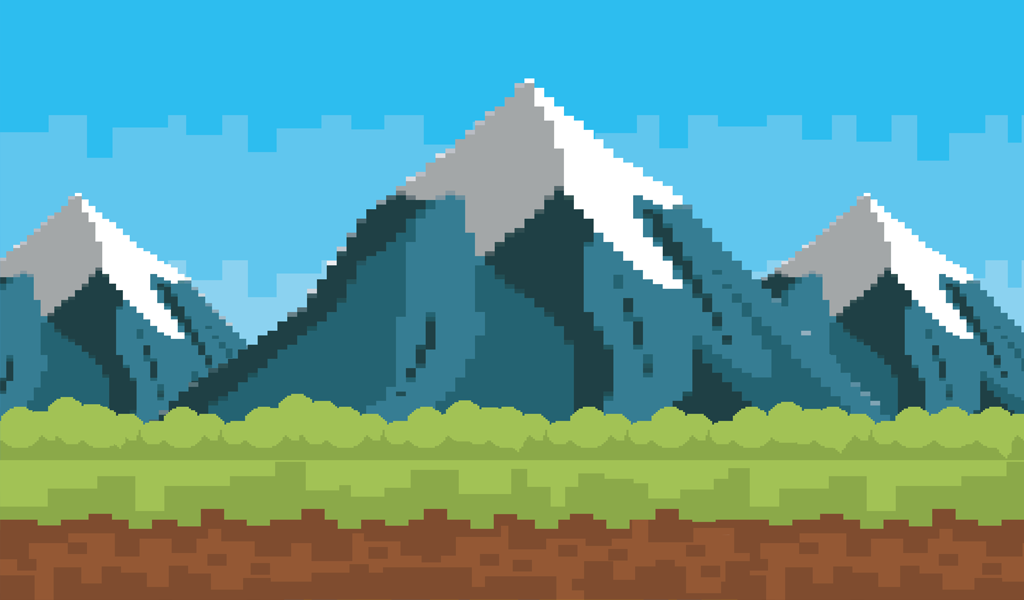
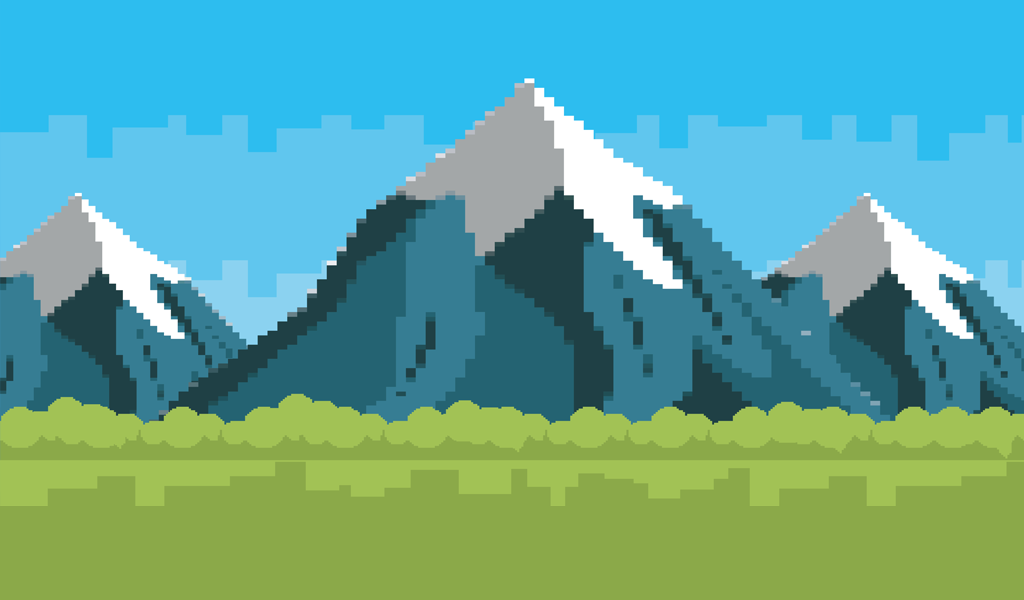
Iniciada segunda tela.

Changed region(s): [[0.0, 0.84, 1.0, 1.0]]

diff --git a/index.html b/index.html
@@ -18,6 +18,7 @@
         <link rel="stylesheet" href="./stylesheets/cutscene.css">
         <link rel="stylesheet" href="./stylesheets/bridge.css">
         <link rel="stylesheet" href="./stylesheets/arthur.css">
+        <link rel="stylesheet" href="./stylesheets/battle.css">
         <link rel="stylesheet" href="./stylesheets/styles.css">
     </head>
     <body>
@@ -47,7 +48,7 @@
 
             <div data-counter class="counter" aria-label="Cronômetro"></div>
 
-            <div data-bridge class="brige">
+            <div data-bridge class="brige brige--hide">
                 <div data-bridge-forms class="brige__forms">
                     <button data-bridge-form="triangle" class="brige__form brige__form--triangle" type="button" aria-label="Triângulo"></button>
                     <button data-bridge-form="circle" class="brige__form brige__form--circle" type="button" aria-label="Circulo"></button>
@@ -57,6 +58,14 @@
                 <div class="floor brige__floor brige__floor--left"></div>
                 <div data-bridge-complete class="floor brige__floor brige__floor--complete"></div>
                 <div data-bridge-right class="floor brige__floor brige__floor--right"></div>
+            </div>
+
+            <div data-battle class="battle battle--hide">
+                <div>
+
+                </div>
+
+                <div data-bridge-right class="floor battle__floor"></div>
             </div>
 
             <div data-arthur class="arthur"></div>
@@ -87,6 +96,7 @@
         <script src="./scripts/audio.js"></script>
         <script src="./scripts/arthur.js"></script>
         <script src="./scripts/utils.js"></script>
+        <script src="./scripts/battle.js"></script>
         <script src="./scripts/index.js"></script>
     </body>
 </html>

diff --git a/scripts/bridge.js b/scripts/bridge.js
@@ -19,6 +19,7 @@ const bridge = {
         if(this.correctAudio) this.correctAudio.end();
     },
     endAssets: function(){
+        this.complete.classList.add(this.showBridgeClass);
         this.forms.classList.add(this.hideFormsClass);
         counter.stop();
 
@@ -39,7 +40,6 @@ const bridge = {
 
         if(event.target.dataset.bridgeForm === this._correctValue){
             this._wellDone = true;
-            this.complete.classList.add(this.showBridgeClass);
             this.endAssets();
             this.correctAudio = audio.play('./assets/audios/correct.mp3');
 

diff --git a/scripts/index.js b/scripts/index.js
@@ -69,6 +69,7 @@ const config = {
                         this.changeBackgroundImage('./assets/images/battle.png');
 
                         counter.init(20);
+                        battle.init();
                     });
                 break;
         }
@@ -76,6 +77,7 @@ const config = {
     lose: function(){
         this.lost = true;
         bridge.endAssets();
+        battle.endAssets();
         home.show(
             'Infelizmente você perdeu todas as vidas',
             'Tentar novamente',

diff --git a/scripts/battle.js b/scripts/battle.js
@@ -1,0 +1,14 @@
+const battle = {
+    element: document.querySelector('[data-battle]'),
+    hideClass: 'battle--hide',
+    endAssets: function(){
+        this.hide();
+    },
+    hide: function(){
+        this.element.classList.add(this.hideClass)
+    },
+    init: function(){
+        this.element.classList.remove(this.hideClass);
+        arthur.init();
+    }
+};

diff --git a/stylesheets/bridge.css b/stylesheets/bridge.css
@@ -95,8 +95,13 @@
     animation: var(--time-transition) scale-form infinite alternate;
 }
 
-.brige .brige__form:hover, .brige .brige__form:active{
-    transform: scale(1.15);
+.brige .brige__form:hover{
+    transform: scale(1.05);
+    animation: none;
+}
+
+.brige .brige__form:active{
+    transform: scale(.8);
     animation: none;
 }
 

diff --git a/stylesheets/battle.css b/stylesheets/battle.css
@@ -1,0 +1,15 @@
+.battle{
+    width: 100%;
+    height: 100%;
+}
+
+.battle.battle--hide{
+    display: none;
+}
+
+.battle .battle__floor{
+    --floor-battle-color: #8ba949;
+
+    left: 0;
+    background-color: var(--floor-battle-color);
+}

diff --git a/stylesheets/cutscene.css b/stylesheets/cutscene.css
@@ -28,7 +28,7 @@
 
 .cutscene .cutscene__loading{
     color: var(--blue);
-    font-size: 40px;
+    font-size: 44px;
 }
 
 .cutscene .cutscene__title{
